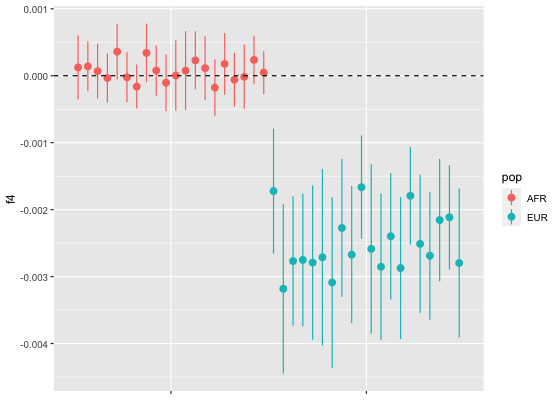
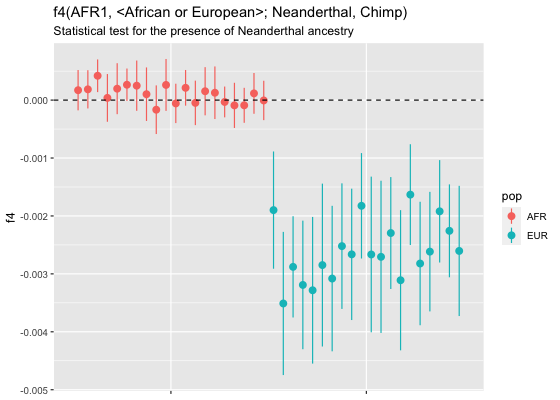
Add titles

diff --git a/introgression.md b/introgression.md
@@ -1,3 +1,11 @@
+---
+output:
+  md_document:
+    variant: gfm
+---
+
+# Simulating Neanderthal introgression data using *slendr*
+
 Load the *slendr* library (we use a development version from GitHub, so
 we’re loading it from a local copy):
 
@@ -90,38 +98,6 @@ chromosomes):
 ts <- ts_load(model, output_dir = output_dir,
               recapitate = TRUE, Ne = 10000, recomb_rate = 1e-8,
               simplify = TRUE)
-
-ts
-#> ╔═══════════════════════════╗
-#> ║TreeSequence               ║
-#> ╠═══════════════╤═══════════╣
-#> ║Trees          │     390099║
-#> ╟───────────────┼───────────╢
-#> ║Sequence Length│100000000.0║
-#> ╟───────────────┼───────────╢
-#> ║Sample Nodes   │        880║
-#> ╟───────────────┼───────────╢
-#> ║Total Size     │   68.9 MiB║
-#> ╚═══════════════╧═══════════╝
-#> ╔═══════════╤═══════╤════════╤════════════╗
-#> ║Table      │Rows   │Size    │Has Metadata║
-#> ╠═══════════╪═══════╪════════╪════════════╣
-#> ║Edges      │1466305│39.2 MiB│          No║
-#> ╟───────────┼───────┼────────┼────────────╢
-#> ║Individuals│ 188109│11.5 MiB│         Yes║
-#> ╟───────────┼───────┼────────┼────────────╢
-#> ║Migrations │      0│ 4 Bytes│          No║
-#> ╟───────────┼───────┼────────┼────────────╢
-#> ║Mutations  │      0│ 1.2 KiB│          No║
-#> ╟───────────┼───────┼────────┼────────────╢
-#> ║Nodes      │ 228679│ 7.0 MiB│         Yes║
-#> ╟───────────┼───────┼────────┼────────────╢
-#> ║Populations│      3│ 2.9 KiB│         Yes║
-#> ╟───────────┼───────┼────────┼────────────╢
-#> ║Provenances│      3│31.5 KiB│          No║
-#> ╟───────────┼───────┼────────┼────────────╢
-#> ║Sites      │      0│ 8 Bytes│          No║
-#> ╚═══════════╧═══════╧════════╧════════════╝
 ```
 
 Let’s sprinkle mutations on the tree sequence data structure (not that
@@ -130,38 +106,6 @@ generate so much data for so many individuals in a forward simulation):
 
 ``` r
 ts_mut <- ts_mutate(ts, mutation_rate = 1e-8)
-
-ts_mut
-#> ╔═══════════════════════════╗
-#> ║TreeSequence               ║
-#> ╠═══════════════╤═══════════╣
-#> ║Trees          │     390099║
-#> ╟───────────────┼───────────╢
-#> ║Sequence Length│100000000.0║
-#> ╟───────────────┼───────────╢
-#> ║Sample Nodes   │        880║
-#> ╟───────────────┼───────────╢
-#> ║Total Size     │   88.1 MiB║
-#> ╚═══════════════╧═══════════╝
-#> ╔═══════════╤═══════╤════════╤════════════╗
-#> ║Table      │Rows   │Size    │Has Metadata║
-#> ╠═══════════╪═══════╪════════╪════════════╣
-#> ║Edges      │1466305│39.2 MiB│          No║
-#> ╟───────────┼───────┼────────┼────────────╢
-#> ║Individuals│ 188109│11.5 MiB│         Yes║
-#> ╟───────────┼───────┼────────┼────────────╢
-#> ║Migrations │      0│ 4 Bytes│          No║
-#> ╟───────────┼───────┼────────┼────────────╢
-#> ║Mutations  │ 438115│12.1 MiB│          No║
-#> ╟───────────┼───────┼────────┼────────────╢
-#> ║Nodes      │ 228679│ 7.0 MiB│         Yes║
-#> ╟───────────┼───────┼────────┼────────────╢
-#> ║Populations│      3│ 2.9 KiB│         Yes║
-#> ╟───────────┼───────┼────────┼────────────╢
-#> ║Provenances│      4│32.3 KiB│          No║
-#> ╟───────────┼───────┼────────┼────────────╢
-#> ║Sites      │ 438115│ 7.1 MiB│          No║
-#> ╚═══════════╧═══════╧════════╧════════════╝
 ```
 
 ## Sanity checks
@@ -184,7 +128,7 @@ ts_data(ts_mut)
 #> oldest sampled individual: 70000 backward time units
 #> youngest sampled individual: 0 backward time units
 #> 
-#> oldest node: 8148036 backward time units
+#> oldest node: 8702415 backward time units
 #> youngest node: 0 backward time units
 #> ---------------------- 
 #> data was generated by a non-spatial slendr model
@@ -206,7 +150,7 @@ But it works.
 prefix <- file.path(output_dir, "eigenstrat")
 
 eigen_data <- ts_eigenstrat(ts_mut, prefix = prefix, outgroup = "chimp")
-#> 953 mutations (out of 438115) have been removed because they appeared on a position already occupied by another mutation. This is a consequence of mutations positions in tskit being in floating-point values but normal genomic locations being integer values.
+#> 973 mutations (out of 437018) have been removed because they appeared on a position already occupied by another mutation. This is a consequence of mutations positions in tskit being in floating-point values but normal genomic locations being integer values.
 ```
 
 Let’s load [admixr](https://bodkan.net/admixr) (plus dplyr and ggplo2
@@ -215,17 +159,6 @@ for table munging and plotting) and do some quick sanity checks.
 ``` r
 library(admixr)
 library(dplyr)
-#> 
-#> Attaching package: 'dplyr'
-#> The following object is masked from 'package:testthat':
-#> 
-#>     matches
-#> The following objects are masked from 'package:stats':
-#> 
-#>     filter, lag
-#> The following objects are masked from 'package:base':
-#> 
-#>     intersect, setdiff, setequal, union
 library(ggplot2)
 ```
 
@@ -258,10 +191,12 @@ inner_join(f4_result, samples, by = c("X" = "name")) %>%
     geom_pointrange(aes(ymin = f4 - 2 * stderr, ymax = f4 + 2 * stderr, group = X),
                     position = position_dodge(width = 1)) +
     geom_hline(yintercept = 0, linetype = 2) +
-    theme(axis.text.x = element_blank(), axis.title.x = element_blank())
+    theme(axis.text.x = element_blank(), axis.title.x = element_blank()) +
+    ggtitle("f4(AFR1, <African or European>; Neanderthal, Chimp)",
+            "Statistical test for the presence of Neanderthal ancestry")
 ```
 
-![](figures/f4_test-1.png)
+![](figures/f4_test-1.png)<!-- -->
 
 Looks great! We can see that the Africans are all consistent with the
 hypothesis of no Neanderthal introgression (as expected, and as implied
@@ -292,11 +227,13 @@ inner_join(f4ratio_result, samples, by = c("X" = "name")) %>%
     geom_hline(yintercept = 0, linetype = 2) +
     geom_smooth(method = "lm") +
     coord_cartesian(ylim = c(0, 0.1)) +
-    xlim(c(max(filter(samples, pop == "EUR")$time), 0))
+    xlim(c(max(filter(samples, pop == "EUR")$time), 0)) +
+    ggtitle("f4-ratio estimate of Neanderthal ancestry in Europeans over time") +
+    labs(x = "time [years before present]", y = "Neanderhal ancestry proportion")
 #> `geom_smooth()` using formula 'y ~ x'
 ```
 
-![](figures/f4ratio_trajectory-1.png)
+![](figures/f4ratio_trajectory-1.png)<!-- -->
 
 As expected, we see a constant level of Neanderthal ancestry around 3%
 (which is exactly what we have simulated)!
